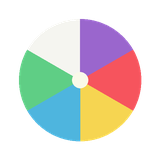
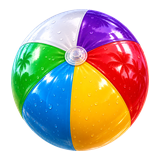
feat(hrb): v0.77.11 approved beach ball artwork via PTAB

diff --git a/sw.js b/sw.js
@@ -1,4 +1,4 @@
-const CACHE='hrb-v77-20261125-baguette-art-approved-sports-10';
+const CACHE='hrb-v77-20261125-baguette-art-approved-sports-11';
 const ASSETS=['./','./index.html','./style.css','./manifest.webmanifest','./src/main.js','./src/gulls.js','./src/pitcher.js','./src/engine.js','./src/world.js','./src/biomes.js','./src/game.js','./src/logic.js','./src/audio.js','./src/rewarded.js','./src/aiming.js','./src/sprites.js','./src/traffic.js','./src/discoveries.js','./src/cosmetic-render.js','./src/cosmetic-catalog.js','./src/cosmetic-art.js','./src/baked-assets.js','./assets/baked/manifest.json','./src/impact-fx.js','./src/ball-visuals.js','./src/ball-spin.js','./assets/materials-atlas-v2.png',
  './assets/strike.mp3','./assets/audio/bat-cgeffex.wav','./assets/baseball.webp',
  './assets/bat.webp','./assets/hit-spark.webp','./assets/swing-trail.webp',
@@ -7,10 +7,10 @@ const ASSETS=['./','./index.html','./style.css','./manifest.webmanifest','./src/
  './assets/batter/contact.webp','./assets/batter/follow.webp',
  './icons/icon-32.png','./icons/icon-180.png','./icons/icon-192.png','./icons/icon-512.png',
  './icons/icon-32.png?v=0.77.0','./icons/icon-180.png?v=0.77.0','./icons/icon-192.png?v=0.77.0','./icons/icon-512.png?v=0.77.0',
- './manifest.webmanifest?v=0.77.0','./style.css?v=0.77.0','./src/main.js?v=0.77.10','./src/game.js?v=0.77.10',
- './src/gulls.js?v=0.77.10','./src/pitcher.js?v=0.77.10','./src/world.js?v=0.77.10','./src/biomes.js?v=0.77.10','./src/engine.js?v=0.77.10','./src/logic.js?v=0.77.10',
- './src/audio.js?v=0.77.10','./src/rewarded.js?v=0.77.10','./src/aiming.js?v=0.77.10',
- './src/sprites.js?v=0.77.10','./src/traffic.js?v=0.77.10','./src/discoveries.js?v=0.77.10','./src/cosmetic-render.js?v=0.77.10','./src/cosmetic-catalog.js?v=0.77.10','./src/cosmetic-art.js?v=0.77.10','./src/baked-assets.js?v=0.77.10','./src/impact-fx.js?v=0.77.10','./src/ball-visuals.js?v=0.77.10','./src/ball-spin.js?v=0.77.10','./assets/materials-atlas-v2.png?v=0.77.0','./assets/strike.mp3?v=0.77.0','./assets/audio/bat-cgeffex.wav?v=0.77.0'];
+ './manifest.webmanifest?v=0.77.0','./style.css?v=0.77.0','./src/main.js?v=0.77.11','./src/game.js?v=0.77.11',
+ './src/gulls.js?v=0.77.11','./src/pitcher.js?v=0.77.11','./src/world.js?v=0.77.11','./src/biomes.js?v=0.77.11','./src/engine.js?v=0.77.11','./src/logic.js?v=0.77.11',
+ './src/audio.js?v=0.77.11','./src/rewarded.js?v=0.77.11','./src/aiming.js?v=0.77.11',
+ './src/sprites.js?v=0.77.11','./src/traffic.js?v=0.77.11','./src/discoveries.js?v=0.77.11','./src/cosmetic-render.js?v=0.77.11','./src/cosmetic-catalog.js?v=0.77.11','./src/cosmetic-art.js?v=0.77.11','./src/baked-assets.js?v=0.77.11','./src/impact-fx.js?v=0.77.11','./src/ball-visuals.js?v=0.77.11','./src/ball-spin.js?v=0.77.11','./assets/materials-atlas-v2.png?v=0.77.0','./assets/strike.mp3?v=0.77.0','./assets/audio/bat-cgeffex.wav?v=0.77.0'];
 const OPTIONAL_AUDIO=[
  './assets/audio/bat-cgeffex.mp3?v=0.77.0',
  './assets/audio/asphalt-ball.mp3?v=0.77.0',
@@ -31,7 +31,7 @@ self.addEventListener('install',e=>e.waitUntil(
    ...manifest.balls.map(id=>'./assets/baked/balls/'+id+'.webp')
   ];
   if(previews.length!==100)throw Error('Catálogo incompleto');
-  for(let i=0;i<previews.length;i+=12)await cache.addAll(previews.slice(i,i+12).map(p=>p+(/\/bats\/martillo\.webp$/.test(p)?'?v=0.77.10':/\/outfits\/basket_lila\/ready\.webp$/.test(p)?'?v=0.77.9':/\/balls\/(?:naranja|nieve)\.webp$/.test(p)?'?v=0.77.8':/\/outfits\/(?:hockey_hielo|basket_rojo)\/ready\.webp$/.test(p)?'?v=0.77.6':/\/bats\/(?:escoba|platano)\.webp$/.test(p)?'?v=0.77.5':/\/outfits\/(?:basket_negro|atletismo|tenis_blanco)\/ready\.webp$/.test(p)?'?v=0.77.4':/\/(?:balls\/(?:tenis|arcoiris)\.webp|bats\/(?:nova|paraguas)\.webp)$/.test(p)?'?v=0.77.3':p.includes('/outfits/futbol_verde/')?'?v=0.77.2':p.includes('/outfits/futbol_rojo/')?'?v=0.77.1':'?v=0.77.0')));
+  for(let i=0;i<previews.length;i+=12)await cache.addAll(previews.slice(i,i+12).map(p=>p+(/\/balls\/playa\.webp$/.test(p)?'?v=0.77.11':/\/bats\/martillo\.webp$/.test(p)?'?v=0.77.10':/\/outfits\/basket_lila\/ready\.webp$/.test(p)?'?v=0.77.9':/\/balls\/(?:naranja|nieve)\.webp$/.test(p)?'?v=0.77.8':/\/outfits\/(?:hockey_hielo|basket_rojo)\/ready\.webp$/.test(p)?'?v=0.77.6':/\/bats\/(?:escoba|platano)\.webp$/.test(p)?'?v=0.77.5':/\/outfits\/(?:basket_negro|atletismo|tenis_blanco)\/ready\.webp$/.test(p)?'?v=0.77.4':/\/(?:balls\/(?:tenis|arcoiris)\.webp|bats\/(?:nova|paraguas)\.webp)$/.test(p)?'?v=0.77.3':p.includes('/outfits/futbol_verde/')?'?v=0.77.2':p.includes('/outfits/futbol_rojo/')?'?v=0.77.1':'?v=0.77.0')));
  }).then(()=>self.skipWaiting())
 ));
 self.addEventListener('activate',e=>e.waitUntil(caches.keys().then(keys=>Promise.all(keys.filter(k=>k!==CACHE).map(k=>caches.delete(k)))).then(()=>self.clients.claim())));

diff --git a/src/game.js b/src/game.js
@@ -1,18 +1,18 @@
-import {Renderer,CanvasRenderer,lerp} from './engine.js?v=0.77.10';
-import {drawWorld,groundAt,areaAt,traceBuildingCollision,traceStadiumContainerCollision,traceStadiumFenceCollision} from './world.js?v=0.77.10';
-import {traceSideBoundary,WORLD_CENTER_X,WORLD_HALF_WIDTH} from './biomes.js?v=0.77.10';
-import {SAVE_KEY,sanitizeSave,initialSave,formatInt,upgradeCost,upgrade,bonusCredits,bonusProgress,BONUS_EVERY,claimBonus,skillMaxLevel,calculateShot,pitchTimingDeltaMs,pitchTimingGuide,settleShot,forwardDistance,coinMultiplier,MILESTONES,COSMETICS,OUTFITS,BALL_STYLES,SHOP_SECTIONS,equipCosmetic,qualityNames,clamp} from './logic.js?v=0.77.10';
-import {recordDiscoveryShot,discoveredCount,nextDiscoveryHint,isDiscovered} from './discoveries.js?v=0.77.10';
-import {GameAudio} from './audio.js?v=0.77.10';
-import {hasRewardedAds,showRewardedAd} from './rewarded.js?v=0.77.10';
-import {aimSweep,aimBarPosition,aimSweetHalf,preciseAim,redirectShot,aimDegrees,SWEEP_MAX_RAD} from './aiming.js?v=0.77.10';
-import {BatterSprites} from './sprites.js?v=0.77.10';
-import {bakedAssetUrl} from './baked-assets.js?v=0.77.10';
-import {ImpactEffects,hitStopDuration} from './impact-fx.js?v=0.77.10';
-import {initBallSpin,onSpinImpact,integratePhysicalSpin,advanceVisualSpin,freezeBallSpin} from './ball-spin.js?v=0.77.10';
-import {traceTrafficCollision,trafficDeflection} from './traffic.js?v=0.77.10';
-import {pitcherReactionPlan} from './pitcher.js?v=0.77.10';
-import {planGullEncounter,traceGullCollision,gullDeflection} from './gulls.js?v=0.77.10';
+import {Renderer,CanvasRenderer,lerp} from './engine.js?v=0.77.11';
+import {drawWorld,groundAt,areaAt,traceBuildingCollision,traceStadiumContainerCollision,traceStadiumFenceCollision} from './world.js?v=0.77.11';
+import {traceSideBoundary,WORLD_CENTER_X,WORLD_HALF_WIDTH} from './biomes.js?v=0.77.11';
+import {SAVE_KEY,sanitizeSave,initialSave,formatInt,upgradeCost,upgrade,bonusCredits,bonusProgress,BONUS_EVERY,claimBonus,skillMaxLevel,calculateShot,pitchTimingDeltaMs,pitchTimingGuide,settleShot,forwardDistance,coinMultiplier,MILESTONES,COSMETICS,OUTFITS,BALL_STYLES,SHOP_SECTIONS,equipCosmetic,qualityNames,clamp} from './logic.js?v=0.77.11';
+import {recordDiscoveryShot,discoveredCount,nextDiscoveryHint,isDiscovered} from './discoveries.js?v=0.77.11';
+import {GameAudio} from './audio.js?v=0.77.11';
+import {hasRewardedAds,showRewardedAd} from './rewarded.js?v=0.77.11';
+import {aimSweep,aimBarPosition,aimSweetHalf,preciseAim,redirectShot,aimDegrees,SWEEP_MAX_RAD} from './aiming.js?v=0.77.11';
+import {BatterSprites} from './sprites.js?v=0.77.11';
+import {bakedAssetUrl} from './baked-assets.js?v=0.77.11';
+import {ImpactEffects,hitStopDuration} from './impact-fx.js?v=0.77.11';
+import {initBallSpin,onSpinImpact,integratePhysicalSpin,advanceVisualSpin,freezeBallSpin} from './ball-spin.js?v=0.77.11';
+import {traceTrafficCollision,trafficDeflection} from './traffic.js?v=0.77.11';
+import {pitcherReactionPlan} from './pitcher.js?v=0.77.11';
+import {planGullEncounter,traceGullCollision,gullDeflection} from './gulls.js?v=0.77.11';
 const el=id=>document.getElementById(id);
 // Rozamiento continuo por segundo: una cola de rodadura algo más larga,
 // independiente de los FPS, sin alterar el vuelo ni la pérdida al rebotar.

diff --git a/tests/pwa-refresh.test.js b/tests/pwa-refresh.test.js
@@ -8,12 +8,12 @@ test('v0.50 evita mezclar versiones de CSS, JS, WebAudio y PWA en caché',()=>{
  const sw=readFileSync(new URL('../sw.js',import.meta.url),'utf8');
  const main=readFileSync(new URL('../src/main.js',import.meta.url),'utf8');
  assert.match(html,/style\.css\?v=0\.77\.0/);
- assert.match(html,/src\/main\.js\?v=0\.77\.10/);
- assert.match(main,/game\.js\?v=0\.77\.10/);
+ assert.match(html,/src\/main\.js\?v=0\.77\.11/);
+ assert.match(main,/game\.js\?v=0\.77\.11/);
  for(const src of ['main.js','logic.js','engine.js','game.js','world.js','sprites.js','traffic.js','discoveries.js','cosmetic-render.js','cosmetic-catalog.js','cosmetic-art.js','baked-assets.js','impact-fx.js']){
   const code=readFileSync(new URL('../src/'+src,import.meta.url),'utf8');
   for(const [,path] of code.matchAll(/from '(\.\/[^']+\.js(?:\?[^']+)?)'/g)){
-   assert.ok(path.endsWith('?v=0.77.10'),src+' importa módulo sin versión: '+path);
+   assert.ok(path.endsWith('?v=0.77.11'),src+' importa módulo sin versión: '+path);
   }
  }
  assert.match(sw,/hrb-v77-20261125-baguette-art/);
@@ -21,14 +21,14 @@ test('v0.50 evita mezclar versiones de CSS, JS, WebAudio y PWA en caché',()=>{
  assert.match(sw,/caches\.match\(request\)/);
  assert.match(sw,/clients\.claim/);
  assert.match(sw,/\.\/assets\/strike\.mp3/);
- assert.match(sw,/\.\/src\/biomes\.js\?v=0\.77\.10/);
- assert.match(sw,/\.\/src\/cosmetic-render\.js\?v=0\.77\.10/);
- assert.match(sw,/\.\/src\/cosmetic-catalog\.js\?v=0\.77\.10/);
- assert.match(sw,/\.\/src\/cosmetic-art\.js\?v=0\.77\.10/);
- assert.match(sw,/\.\/src\/baked-assets\.js\?v=0\.77\.10/);
+ assert.match(sw,/\.\/src\/biomes\.js\?v=0\.77\.11/);
+ assert.match(sw,/\.\/src\/cosmetic-render\.js\?v=0\.77\.11/);
+ assert.match(sw,/\.\/src\/cosmetic-catalog\.js\?v=0\.77\.11/);
+ assert.match(sw,/\.\/src\/cosmetic-art\.js\?v=0\.77\.11/);
+ assert.match(sw,/\.\/src\/baked-assets\.js\?v=0\.77\.11/);
  assert.match(sw,/\.\/assets\/baked\/manifest\.json/);
- assert.match(sw,/\.\/src\/traffic\.js\?v=0\.77\.10/);
- assert.match(sw,/\.\/src\/discoveries\.js\?v=0\.77\.10/);
+ assert.match(sw,/\.\/src\/traffic\.js\?v=0\.77\.11/);
+ assert.match(sw,/\.\/src\/discoveries\.js\?v=0\.77\.11/);
  assert.doesNotMatch(sw,/assets\/traffic\//);
 });
 
@@ -82,7 +82,7 @@ test('sprites aprobados persisten durante apuntado, sin dibujar la flecha antigu
 });
 
  test('Baskonia name is identical in the versioned catalog and discovery',async()=>{
- const {OUTFIT_CATALOG}=await import('../src/cosmetic-catalog.js?v=0.77.10');
+ const {OUTFIT_CATALOG}=await import('../src/cosmetic-catalog.js?v=0.77.11');
  const item=OUTFIT_CATALOG.find(x=>x.id==='basket_rojo');
  assert.equal(item.name,'Baloncesto Baskonia');
  assert.equal(item.price,3800);

diff --git a/src/baked-assets.js b/src/baked-assets.js
@@ -8,7 +8,7 @@ export function bakedAssetUrl(category,id,pose='ready',withoutBat=false){
  if(!/^[a-z0-9_]+$/.test(String(id)))throw Error('Invalid cosmetic id');
  // Versionar también los WEBP horneados: Safari/PWA no debe conservar
  // ni la pelota de tenis lisa ni poses con restos del bate anterior.
- const stamp=category==='bat'&&id==='martillo'?'?v=0.77.10':category==='outfit'&&id==='basket_lila'?'?v=0.77.9':category==='ball'&&['naranja','nieve'].includes(id)?'?v=0.77.8':category==='outfit'&&['hockey_hielo','basket_rojo'].includes(id)?'?v=0.77.6':category==='bat'&&['escoba','platano'].includes(id)?'?v=0.77.5':category==='outfit'&&['basket_negro','atletismo','tenis_blanco'].includes(id)?'?v=0.77.4':(category==='ball'&&['tenis','arcoiris'].includes(id)||category==='bat'&&['nova','paraguas'].includes(id))?'?v=0.77.3':category==='outfit'&&id==='futbol_verde'?'?v=0.77.2':id==='futbol_rojo'&&category==='outfit'?'?v=0.77.1':'?v=0.77.0';
+ const stamp=category==='ball'&&id==='playa'?'?v=0.77.11':category==='bat'&&id==='martillo'?'?v=0.77.10':category==='outfit'&&id==='basket_lila'?'?v=0.77.9':category==='ball'&&['naranja','nieve'].includes(id)?'?v=0.77.8':category==='outfit'&&['hockey_hielo','basket_rojo'].includes(id)?'?v=0.77.6':category==='bat'&&['escoba','platano'].includes(id)?'?v=0.77.5':category==='outfit'&&['basket_negro','atletismo','tenis_blanco'].includes(id)?'?v=0.77.4':(category==='ball'&&['tenis','arcoiris'].includes(id)||category==='bat'&&['nova','paraguas'].includes(id))?'?v=0.77.3':category==='outfit'&&id==='futbol_verde'?'?v=0.77.2':id==='futbol_rojo'&&category==='outfit'?'?v=0.77.1':'?v=0.77.0';
  if(category==='outfit'){
   if(!OUTFIT_POSES.includes(pose))throw Error('Invalid pose');
   return './assets/baked/outfits/'+id+'/'+pose+(withoutBat?'-nobat':'')+'.webp'+stamp;

diff --git a/index.html b/index.html
@@ -42,7 +42,7 @@
         <div class="menu-stats"><span>RÉCORD <strong id="menu-best">0 m</strong></span><span>GOLPES <strong id="menu-shots">0</strong></span><span>REGIÓN <strong id="menu-region">ESTADIO</strong></span></div>
         <div class="menu-equipment" id="menu-equipment">🏏 Clásico · 👕 Rojo · ⚾ Blanca</div>
         <small>Sin registro · Partidas rápidas · Guardado local</small>
-        <small class="menu-version">VERSIÓN 0.77.10</small>
+        <small class="menu-version">VERSIÓN 0.77.11</small>
       </div>
     </div>
   </section>
@@ -185,7 +185,7 @@
         <button id="settings-reset" class="setting-action setting-danger">Restablecer todos los datos de este dispositivo</button>
         <p class="settings-explain">Sin registro. Monedas, mejoras y cosméticos solo en este dispositivo. Borrar datos es irreversible.</p>
       </div>
-      <div class="foot-note">Home Run Beyond · CraftRace Studio · Versión 0.77.10</div>
+      <div class="foot-note">Home Run Beyond · CraftRace Studio · Versión 0.77.11</div>
     </div>
   </section>
   <section class="layer modal-shell" id="welcome" hidden>
@@ -201,6 +201,6 @@
   </section>
   <div id="quality" class="quality low"><span>CALIDAD</span> <strong id="fps">— FPS</strong></div>
 </div>
-<script type="module" src="./src/main.js?v=0.77.10"></script>
+<script type="module" src="./src/main.js?v=0.77.11"></script>
 </body>
 </html>

diff --git a/src/world.js b/src/world.js
@@ -1,8 +1,8 @@
-import {lerp} from './engine.js?v=0.77.10';
-import {drawGulls} from './gulls.js?v=0.77.10';
-import {pitcherPose,PITCHER_Z} from './pitcher.js?v=0.77.10';
-import {visibleRoadTraffic,drawProceduralTraffic} from './traffic.js?v=0.77.10';
-import {WORLD_CENTER_X,WORLD_HALF_WIDTH,WORLD_WIDTH,biomeAt,biomeTransitionAt,biomeColorAt,mixColors,boundaryProfileAt} from './biomes.js?v=0.77.10';
+import {lerp} from './engine.js?v=0.77.11';
+import {drawGulls} from './gulls.js?v=0.77.11';
+import {pitcherPose,PITCHER_Z} from './pitcher.js?v=0.77.11';
+import {visibleRoadTraffic,drawProceduralTraffic} from './traffic.js?v=0.77.11';
+import {WORLD_CENTER_X,WORLD_HALF_WIDTH,WORLD_WIDTH,biomeAt,biomeTransitionAt,biomeColorAt,mixColors,boundaryProfileAt} from './biomes.js?v=0.77.11';
 // Mundo entero dibujado con primitivas low-poly, sin ningún asset externo.
 const PI=Math.PI;
 export const rand=(a,b=0)=>{let n=Math.sin(a*127.1+b*311.7+26.63)*43758.5453;return n-Math.floor(n)};

diff --git a/src/sprites.js b/src/sprites.js
@@ -1,8 +1,8 @@
-import {lookAt,perspective,mul4} from './engine.js?v=0.77.10';
-import {surfaceBelowBall,pitcherBallPosition} from './world.js?v=0.77.10';
-import {ballSpriteDiameter,ballShadowOpacity} from './ball-visuals.js?v=0.77.10';
-import {COSMETICS,OUTFITS,BALL_STYLES} from './logic.js?v=0.77.10';
-import {bakedAssetUrl,equippedAssetPaths,WEAPON_POSES,OUTFIT_WEAPON_POSES} from './baked-assets.js?v=0.77.10';
+import {lookAt,perspective,mul4} from './engine.js?v=0.77.11';
+import {surfaceBelowBall,pitcherBallPosition} from './world.js?v=0.77.11';
+import {ballSpriteDiameter,ballShadowOpacity} from './ball-visuals.js?v=0.77.11';
+import {COSMETICS,OUTFITS,BALL_STYLES} from './logic.js?v=0.77.11';
+import {bakedAssetUrl,equippedAssetPaths,WEAPON_POSES,OUTFIT_WEAPON_POSES} from './baked-assets.js?v=0.77.11';
 
 
 // Recortes 2.5D tomados de las tres láminas aprobadas. No hay re-render ni

diff --git a/tests/baked-assets.test.js b/tests/baked-assets.test.js
@@ -196,3 +196,13 @@ test('approved thunder hammer artwork is preserved exactly',()=>{
  assert.match(bakedAssetUrl('bat','martillo'),/v=0\.77\.10$/);
  assert.equal(BAT_CATALOG.find(x=>x.id==='martillo').price,6500);
 });
+
+
+test('approved beach ball artwork is preserved exactly',()=>{
+ const approved=readFileSync(new URL('../assets/approved/balls/playa.webp',import.meta.url));
+ const baked=readFileSync(new URL('../assets/baked/balls/playa.webp',import.meta.url));
+ assert.equal(approved.toString('ascii',8,12),'WEBP');
+ assert.deepEqual(baked,approved);
+ assert.match(bakedAssetUrl('ball','playa'),/v=0\.77\.11$/);
+ assert.equal(BALL_CATALOG.find(x=>x.id==='playa').price,4100);
+});

diff --git a/src/discoveries.js b/src/discoveries.js
@@ -2,7 +2,7 @@
 // Comprar/equipar es otra acción: el precio orienta cuándo revelar cada objeto,
 // pero gastar en habilidades nunca hace retroceder los descubrimientos.
 // Regla estable por ID para no reordenar lo descubierto al crecer el catálogo.
-import {BAT_CATALOG,OUTFIT_CATALOG,BALL_CATALOG} from './cosmetic-catalog.js?v=0.77.10';
+import {BAT_CATALOG,OUTFIT_CATALOG,BALL_CATALOG} from './cosmetic-catalog.js?v=0.77.11';
 
 export const COLLECTIONS=Object.freeze({bat:BAT_CATALOG,outfit:OUTFIT_CATALOG,ball:BALL_CATALOG});
 export const STARTER_DISCOVERIES=Object.freeze(['bat:classic','outfit:red','ball:classic']);

diff --git a/src/logic.js b/src/logic.js
@@ -1,5 +1,5 @@
-import {BAT_CATALOG,OUTFIT_CATALOG,BALL_CATALOG} from './cosmetic-catalog.js?v=0.77.10';
-import {STARTER_DISCOVERIES,INITIAL_DISCOVERY_STATS,sanitizeDiscovery,isDiscovered} from './discoveries.js?v=0.77.10';
+import {BAT_CATALOG,OUTFIT_CATALOG,BALL_CATALOG} from './cosmetic-catalog.js?v=0.77.11';
+import {STARTER_DISCOVERIES,INITIAL_DISCOVERY_STATS,sanitizeDiscovery,isDiscovered} from './discoveries.js?v=0.77.11';
 export const SAVE_KEY='hrb-v1-progress';
 export const MAX_LEVEL=10000;
 export const MULTIPLIER_MAX_LEVEL=51;

diff --git a/src/cosmetic-art.js b/src/cosmetic-art.js
@@ -1,7 +1,7 @@
 // Dibujo 2D procedural, 100% local/offline. Una mini luna tiene cráteres,
 // una escoba tiene cerdas, una trucha tiene aletas; nunca se simulan con un tinte.
 // Los sprites originales del jugador son la base para preservar sus poses.
-import {makeCosmeticCanvas} from './cosmetic-render.js?v=0.77.10';
+import {makeCosmeticCanvas} from './cosmetic-render.js?v=0.77.11';
 
 export const ILLUSTRATED_BALLS=new Set([
  'rainbow','sun','moon','earth','mars','saturn','billiard','tennis','golf',

diff --git a/src/main.js b/src/main.js
@@ -1,4 +1,4 @@
-import {BaseballGame} from './game.js?v=0.77.10';
+import {BaseballGame} from './game.js?v=0.77.11';
 const game=new BaseballGame();
 // Exponer diagnóstico en ?debug=1 para pruebas, sin contaminar el modo jugador.
 if(new URLSearchParams(location.search).has('debug'))window.hrbDebug={game,shot:()=>game.onAction(),levels:game.save.levels,renderer:game.renderer};
